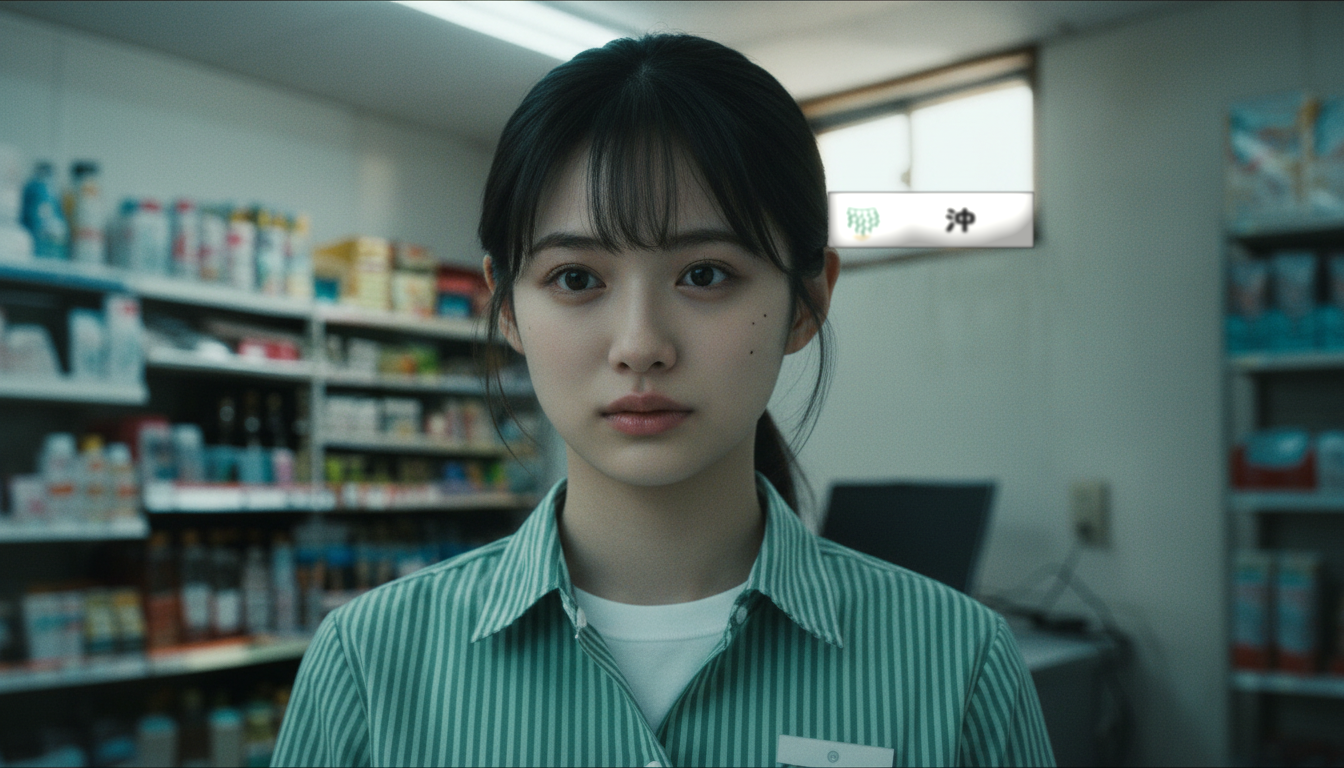
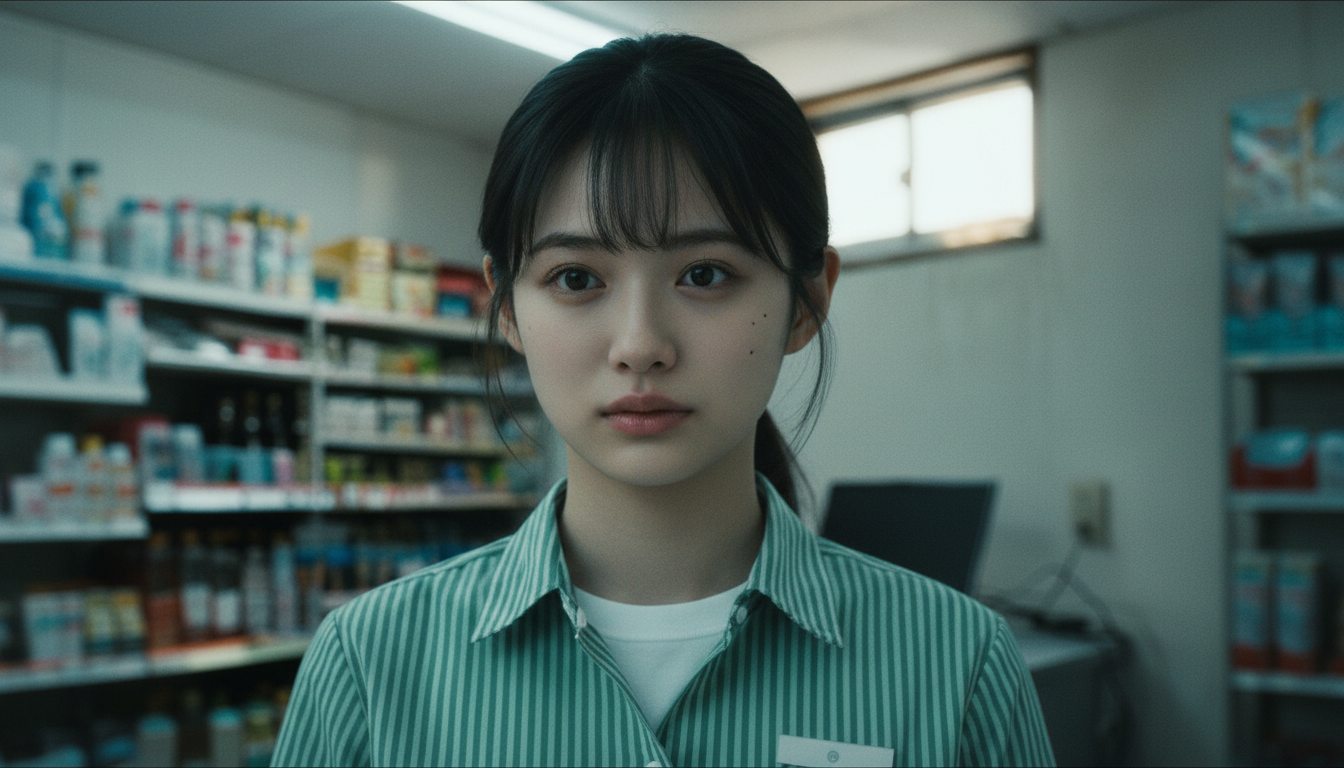
버들잎 지적 수정: S14h 유나 립싱크가 점장 대사를 따라함 + 창틀에 명찰 → 명찰 검출 제외(S14h·S26b) + 유나 대사만으로 OmniHuman 재생성 스펙
Claude-Session: https://claude.ai/code/session_014wxMMzUQSbGFTmqYgUx8fq

Changed region(s): [[0.5938, 0.25, 0.7812, 0.3438]]

diff --git a/scripts/yanagi_composite.py b/scripts/yanagi_composite.py
@@ -53,7 +53,8 @@ def cctv_art(src_id):
     a = np.clip(a, 0, 255).astype(np.uint8)
     return Image.fromarray(np.stack([a * 0.95, a, a * 1.02], -1).clip(0, 255).astype(np.uint8))
 _QUADS_NOTE = {}   # {"S20d": {"sign": [...], "plate": [...], "name": [...]}} — 자동 검출 보정용
-SKIP = {"S21b": {"plate"}, "S06a": {"name"}, "S27d": {"name"}, "S15a": {"name"}, "S20a": {"name"}}    # {"S08a": {"name"}} — 해당 표기 합성 안 함(가려짐·너무 작음)
+SKIP = {"S21b": {"plate"}, "S06a": {"name"}, "S27d": {"name"}, "S15a": {"name"}, "S20a": {"name"},
+        "S14h": {"name"}, "S26b": {"name"}}  # S14h·S26b: 명찰 검출이 창틀·문 표찰에 붙음(조립본 지적 2026-10-05)    # {"S08a": {"name"}} — 해당 표기 합성 안 함(가려짐·너무 작음)
 
 
 # ---------- 원화 ----------
